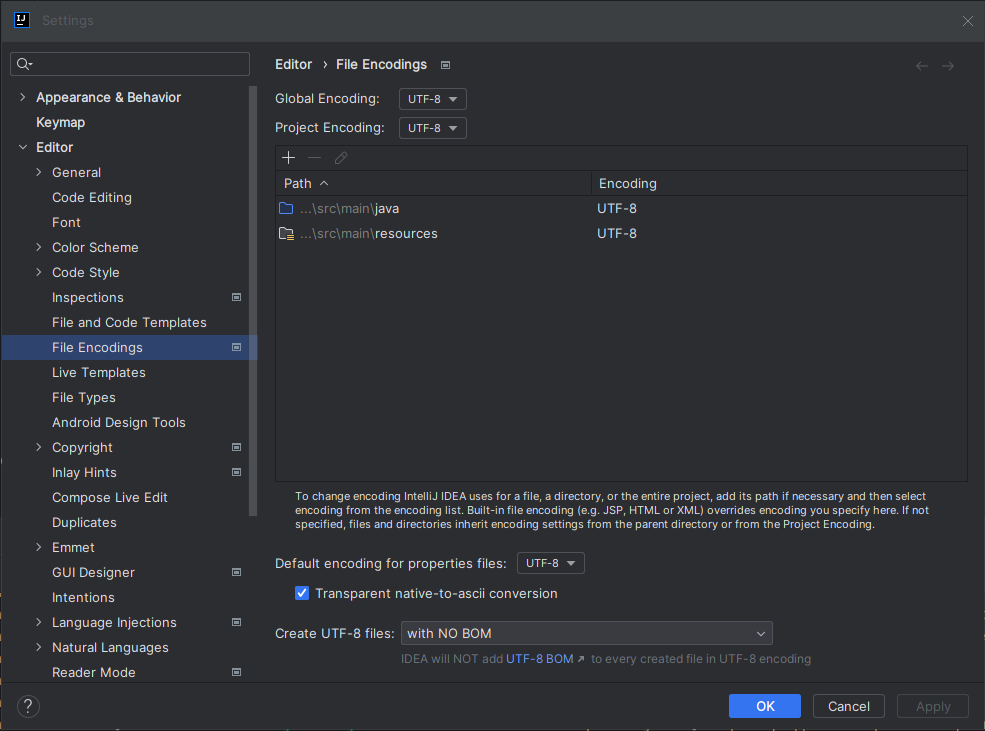
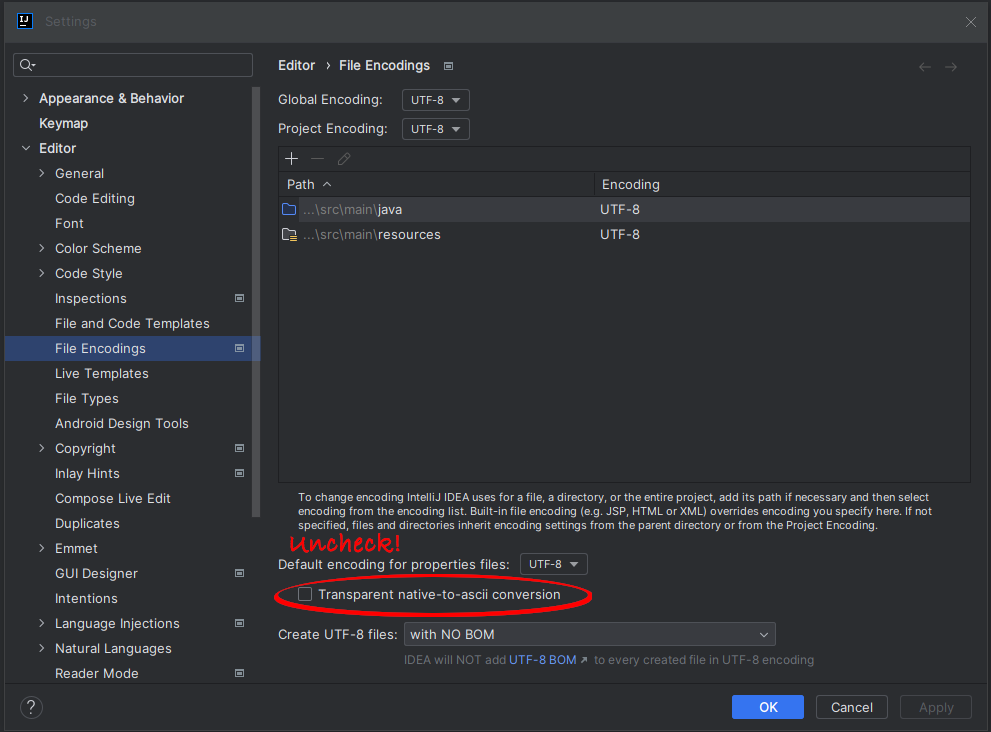
Done!
What an ordeal! I hate it when the IDE interferes with the natural order of things. Yes, help me code more efficiently, but don't assume you know better than me. This is 2023, not 1997! If I type non-ascii characters into a text file, chances are better than even that I will want them rendered in UTF-8, not Unicode, and certainly not HTML Encoded! If you're going to make assumptions on my part, at least make them intelligent assumptions.
*sigh*

diff --git a/README.md b/README.md
@@ -13,8 +13,9 @@ found it yet. I decided to create this demo to help others who may be in the sam
 ![Changes to Settings](IntelliJ_Encodings_Settings_2023-10-29.png)<br/>
 _Changes to Settings_
 
-![Changes as seen by Git](IntelliJ_Encodings_Git_changes_2023-10-29.png)<br/>
-_Changes as seen by Git_
+<b>VERY Important Note:</b> Be sure to un-check the "Transparent native-to-ascii conversion" box. If you don't, you'll get Unicode mark-up inserted in your text.
+
+_Why not just accept the character encoding of the underlying files?< /rant>_
 
 # Getting Started
 
